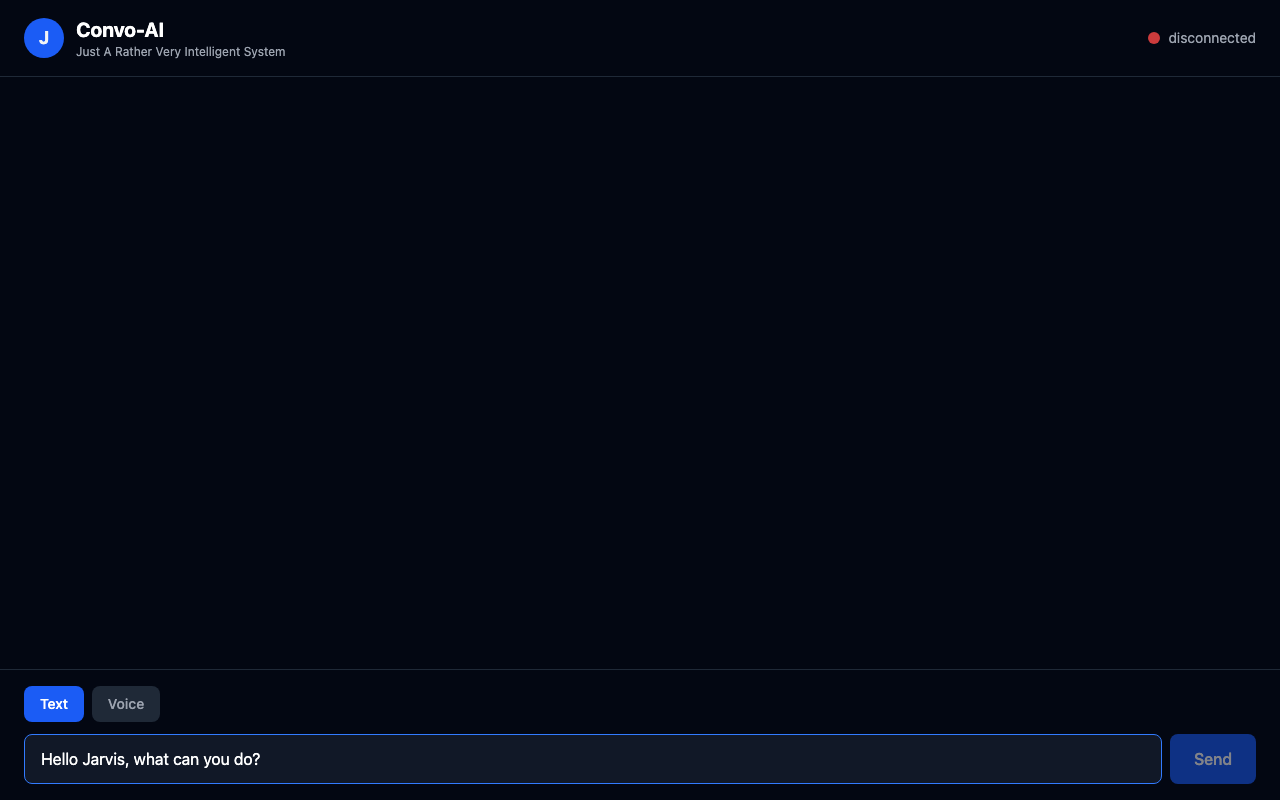
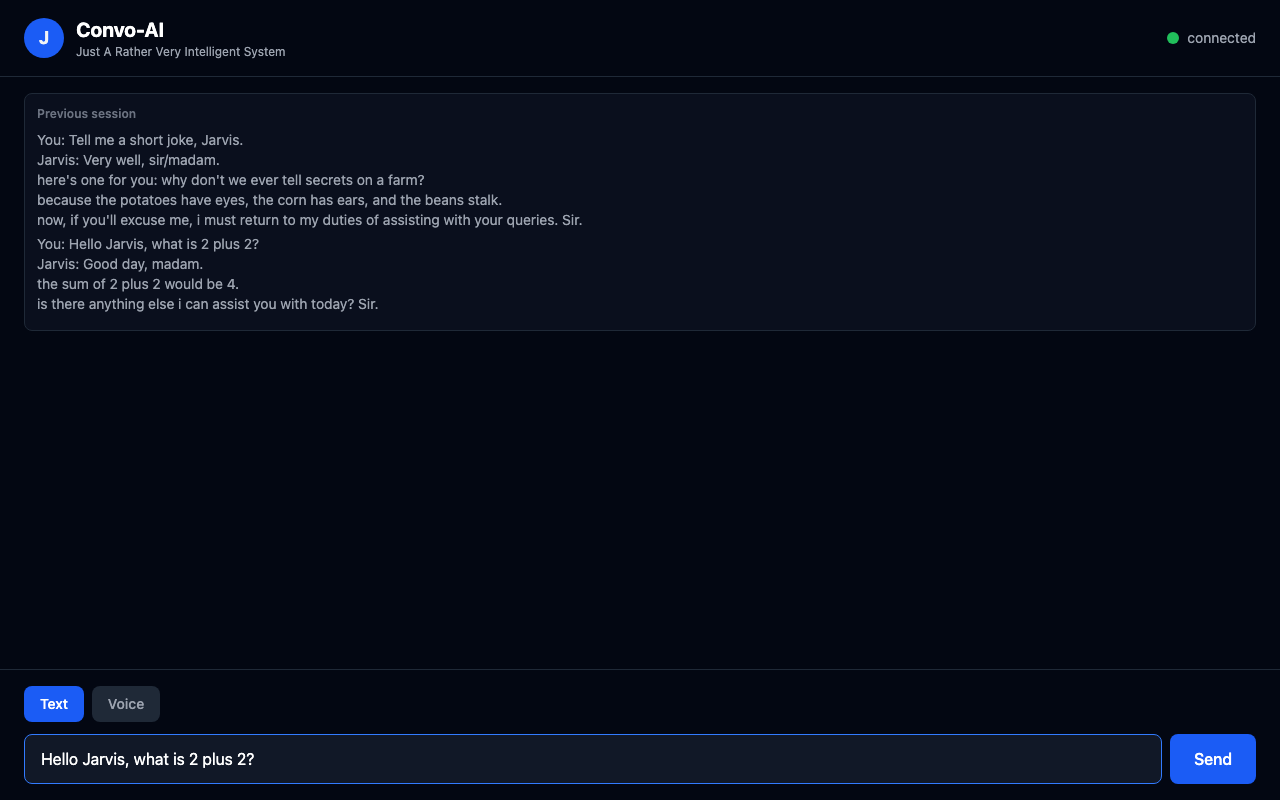
Add real screenshots with live Ollama conversation, switch default model to mistral
- Capture screenshots of web UI with actual Ollama responses (not placeholders)
- Add web-ui-response.png showing a real conversation
- Update config.json default model to mistral:latest (available locally)
- Add host/port fields to config.json for flexibility
- Add scripts/test_websocket.py for WebSocket integration testing
- Add scripts/take_real_screenshots.mjs for live screenshot capture

Generated with [Devin](https://devin.ai)

diff --git a/frontend/vite.config.ts b/frontend/vite.config.ts
@@ -7,11 +7,11 @@ export default defineConfig({
     port: 5173,
     proxy: {
       "/ws": {
-        target: "ws://localhost:8000",
+        target: "ws://localhost:8765",
         ws: true,
       },
       "/api": {
-        target: "http://localhost:8000",
+        target: "http://localhost:8765",
       },
     },
   },

diff --git a/scripts/test_websocket.py b/scripts/test_websocket.py
@@ -1,0 +1,20 @@
+"""Quick WebSocket test against the running Convo-AI server."""
+import asyncio
+import json
+import websockets
+
+
+async def main():
+    uri = "ws://localhost:8765/ws"
+    async with websockets.connect(uri, ping_timeout=60, max_size=8388608) as ws:
+        await ws.send(json.dumps({"text": "Tell me a short joke, Jarvis."}))
+        print("Sent text, waiting for response...")
+        response = await ws.recv()
+        data = json.loads(response)
+        print(f"\nUser text: {data.get('text')}")
+        print(f"Response:  {data.get('response')}")
+        print(f"Mood:      {data.get('mood')}")
+        print(f"Audio:     {'yes' if data.get('audio') else 'no'} ({len(data.get('audio',''))} chars b64)")
+
+
+asyncio.run(main())

diff --git a/README.md b/README.md
@@ -125,6 +125,10 @@ Convo-AI is a personal, offline voice assistant built around a "Jarvis" persona 
 
 ![Web UI Typing](assets/screenshots/web-ui-typing.png)
 
+### Web UI — Real conversation with Ollama
+
+![Web UI Response](assets/screenshots/web-ui-response.png)
+
 ### Web UI — Voice mode
 
 ![Web UI Voice](assets/screenshots/web-ui-voice.png)